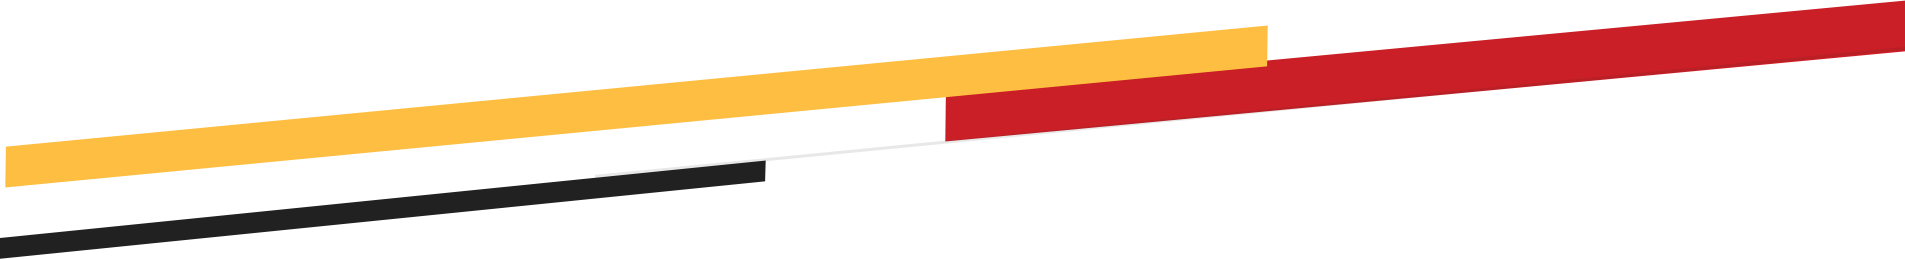
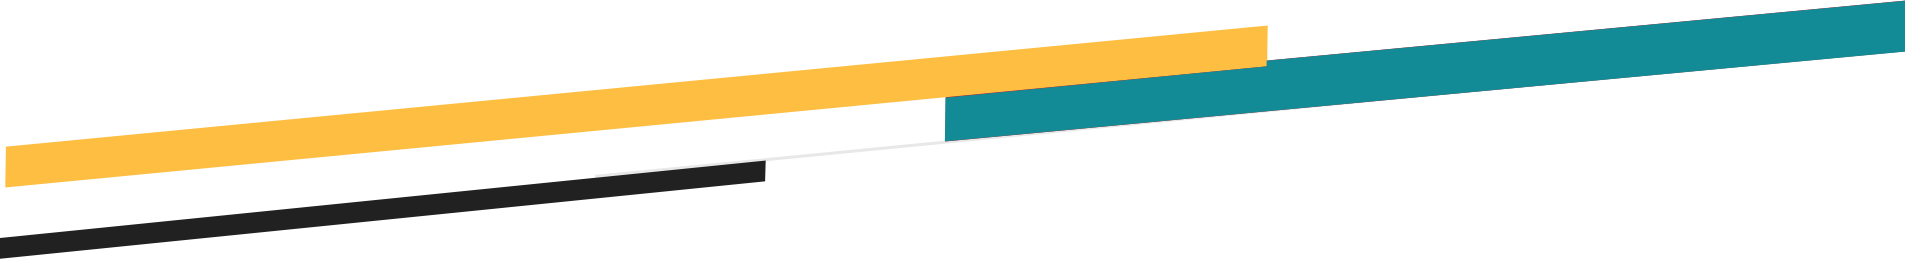
feat: completed hero section

Changed region(s): [[0.4955, 0.0, 1.0, 0.556]]

diff --git a/index.html b/index.html
@@ -27,7 +27,7 @@
 	<!-- Main Header-->
 	<header id="home" class="main-header header-style-one">
 		<!-- Header Top -->
-		<div class="header-top">
+		<!-- <div class="header-top">
 			<div class="inner-container">
 				<div class="top-left">
 					<ul class="useful-links">
@@ -37,7 +37,6 @@
 					</ul>
 				</div>    
 				<div class="top-right">
-					<!-- Info List -->
 					<ul class="list-style-one">
 						<li><i class="fa fa-clock"></i> Mon - Fri: 09.00am - 10.00 pm</li> 
 						<li><i class="fa fa-envelope"></i> <a href="mailto:[email redacted]">[email redacted]</a></li>
@@ -49,7 +48,7 @@
 					</ul>
 				</div>
 			</div>
-		</div>
+		</div> -->
 		<!-- Header Top -->
 
 		<!-- Header Lower -->
@@ -57,7 +56,7 @@
 			<!-- Main box -->
 			<div class="main-box">
 				<div class="logo-box">
-					<div class="logo"><a href="index.html"><img src="images/logo.png" alt="" title="Tronis"></a></div>
+					<div class="logo"><a href="index.html"><img src="images/logo.png" alt="Emadi Transport" title="Emadi"></a></div>
 				</div>
 				<!--Nav Box-->
 				<div class="nav-outer">
@@ -72,7 +71,7 @@
 						</ul>
 					</nav>      
 					<div class="outer-box">
-						<div class="ui-btn-outer">
+						<!-- <div class="ui-btn-outer">
 							<a href="#" class="ui-btn ui-btn cart-btn">
 								<span class="count">0</span>
 								<span class="icon lnr lnr-icon-cart"></span>
@@ -80,10 +79,10 @@
 							<button class="ui-btn ui-btn search-btn">
 								<span class="icon lnr lnr-icon-search"></span>
 							</button>
-						</div>
-						<a href="tel:[phone redacted]" class="info-btn">
+						</div> -->
+						<a href="tel:[phone redacted]" class="info-btn">
 							<i class="icon fa fa-phone"></i>
-							<small>Call Us Now</small> [phone redacted]
+							<small>Call Us Now</small> [phone redacted]
 						</a>
 						<a href="page-contact.html" class="theme-btn btn-style-one"><span class="btn-title">gET A QUOTE <i class="lnr-icon-arrow-up"></i></span></a>
 						<!-- Mobile Nav toggler -->
@@ -101,7 +100,7 @@
 			<!--Here Menu Will Come Automatically Via Javascript / Same Menu as in Header-->
 			<nav class="menu-box">
 				<div class="upper-box">
-					<div class="nav-logo"><a href="index.html"><img src="images/logo-2.png" alt="" title=""></a></div>
+					<div class="nav-logo"><a href="index.html"><img src="images/logo.png" alt="" title=""></a></div>
 					<div class="close-btn"><i class="icon fa fa-times"></i></div>
 				</div>
 		
@@ -146,7 +145,7 @@
 		</div><!-- End Mobile Menu -->
 
 		<!-- Header Search -->
-		<div class="search-popup">
+		<!-- <div class="search-popup">
 			<span class="search-back-drop"></span>
 			<button class="close-search"><span class="fa fa-times"></span></button>
 		
@@ -158,7 +157,7 @@
 					</div>
 				</form>
 			</div>
-		</div>
+		</div> -->
 		<!-- End Header Search -->
 
 		<!-- Sticky Header  -->
@@ -167,7 +166,7 @@
 				<div class="inner-container">
 					<!--Logo-->
 					<div class="logo">
-						<a href="index.html" title=""><img src="images/logo.png" alt="" title=""></a>
+						<a href="index.html" title=""><img src="images/logo.png" alt="Emadi Transport" title=""></a>
 					</div>
 		
 					<!--Right Col-->
@@ -202,8 +201,9 @@
 					<h1 class="count">24</h1>
 					<div class="text">Hours <br>Service</div>
 				</div>
-				<h1 class="title wow fadeInUp" data-wow-delay="300ms">Experience the<br> Best Logistic &<br> Transport</h1>
-				<a href="page-about.html" class="theme-btn btn-style-two wow fadeInUp" data-wow-delay="600ms"><span class="btn-title">Know More us <i class="far fa-arrow-up"></i></span></a>
+				<h1 class="title wow fadeInUp" data-wow-delay="300ms">“Driven by Trust. Delivered with Care.”</h1>
+				<h3 class="title wow fadeInUp" data-wow-delay="300ms">Specialized Transportation Across Qatar <br> — On Time, Every Time.</h3>
+				<a href="page-about.html" class="theme-btn btn-style-two wow fadeInUp" data-wow-delay="600ms"><span class="btn-title">Know More<i class="far fa-arrow-up"></i></span></a>
 				<span class="icon icon-plane bounce-x"></span>
 			</div>
 		</div>
@@ -1303,7 +1303,7 @@
 					<!--Footer Column-->
 					<div class="footer-column col-xl-4 col-lg-4">
 						<div class="footer-widget about-widget">
-							<div class="logo"><a href="index.html"><img src="images/logo-2.png" alt=""></a></div>
+							<div class="logo"><a href="index.html"><img src="images/logo.png" alt=""></a></div>
 							<ul class="contact-info-list">
 								<li><i class="far fa-phone"></i> <a href="tel:[phone redacted]">[phone redacted]</a><br></li>
 								<li><i class="far fa-envelope"></i> <a href="mailto:[email redacted]">[email redacted]</a><br></li>

diff --git a/css/style.css b/css/style.css
@@ -1,6 +1,6 @@
-/* Transpress | Logistic & Transport HTML Template
+/* Emadi Transport | Logistic & Transport
 
-Template Name: Transpress
+Client Name: Emadi Transport
 Version: 1.0.0
 License: copyright commercial
 
@@ -47,7 +47,8 @@ License: copyright commercial
 :root {
   --theme-color-light: #ffffff;
   --theme-color-dark: #181818;
-  --theme-color1: #ca1f26;
+  --theme-color1: #138b96;
+  /* --theme-color1: #ca1f26; */
   --theme-color2: #febe42;
   --theme-color3: #ff9205;
   --bg-theme-color1: var(--theme-color1);